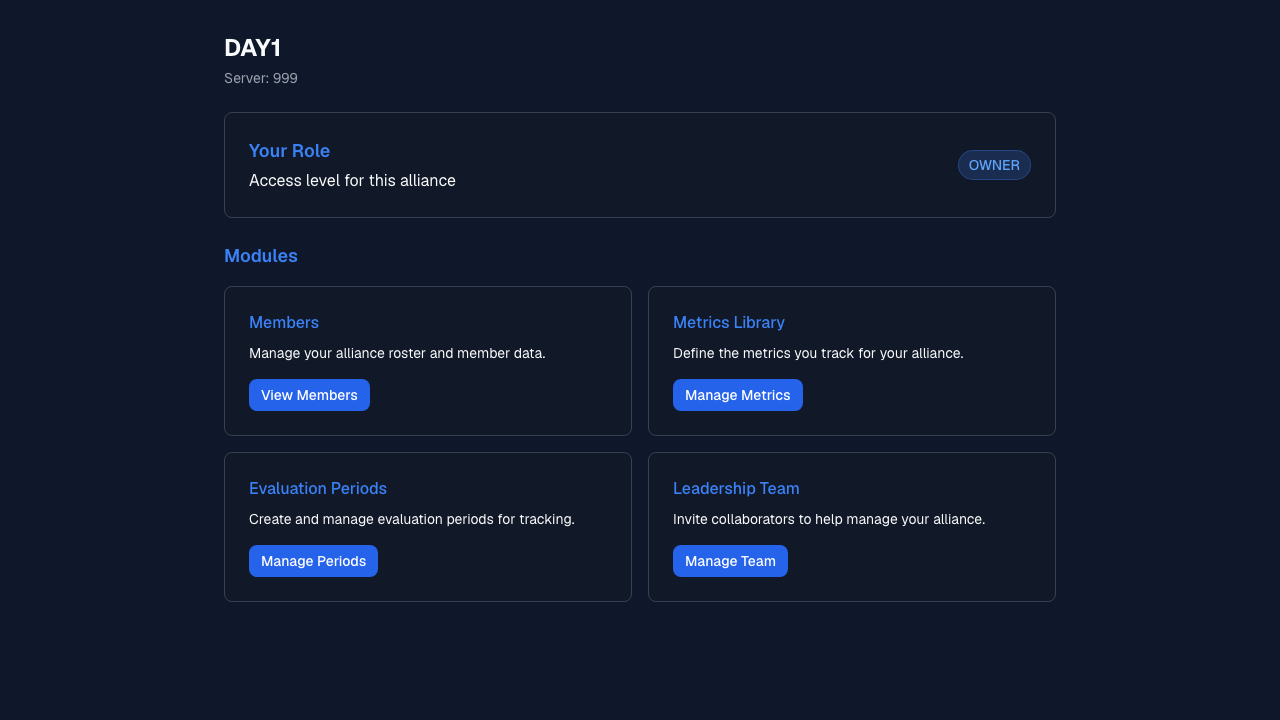
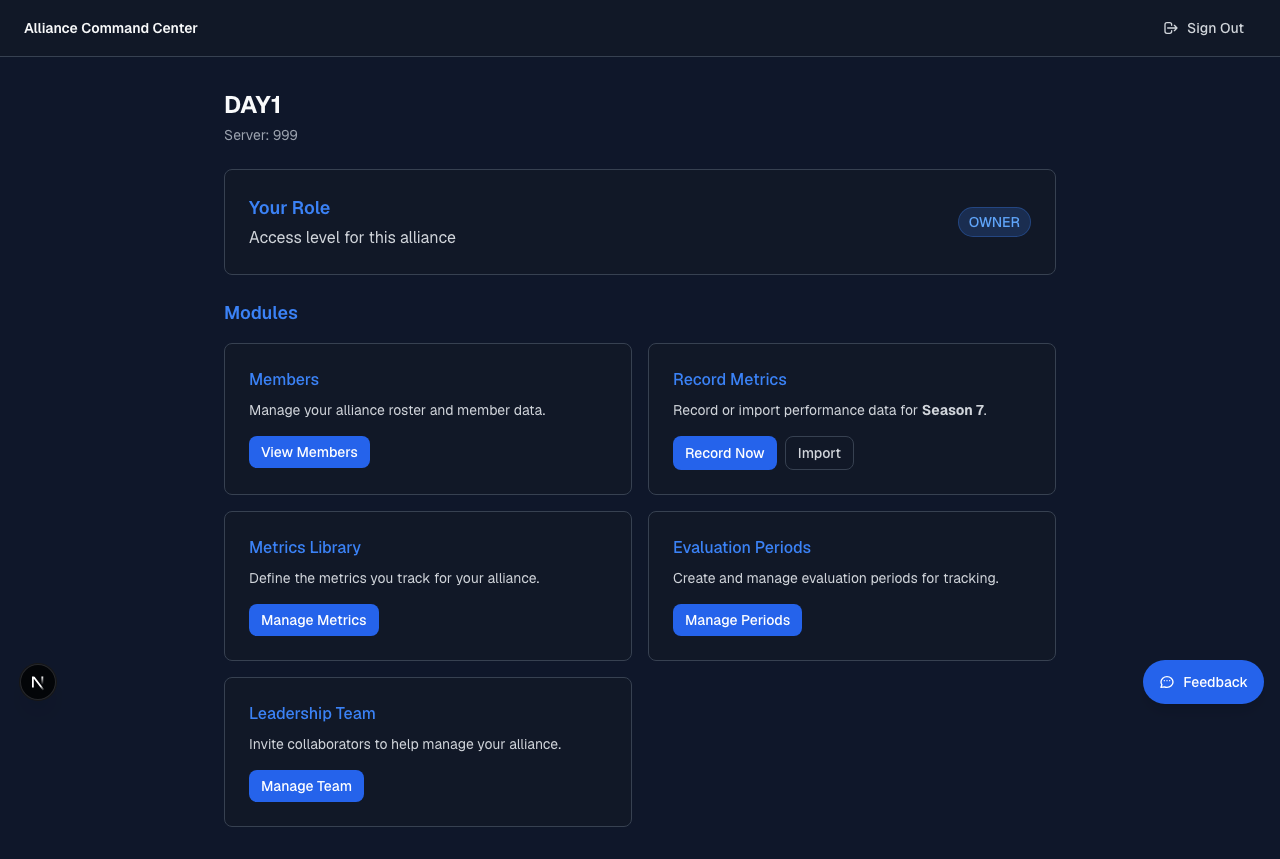
fix: Feedback widget contrast, URL validation, notify logging
- Use AA-compliant primary-hover/active shades for the floating feedback
  button (axe color-contrast was failing on the lighter bg-primary)
- Validate the client-supplied feedback URL as an internal path and clamp
  its length before persisting (operator context can't be spoofed)
- Include feedbackId/url/recipient in the operator-notification failure log
- Refresh Dashboard/Setup darwin visual baselines for the widget

diff --git a/app/feedback/actions.ts b/app/feedback/actions.ts
@@ -14,6 +14,21 @@ export type SubmitFeedbackState = {
 };
 
 const MAX_MESSAGE_LENGTH = 2000;
+const MAX_URL_LENGTH = 512;
+
+/**
+ * The URL is a client-supplied hint used only for operator context. Accept it
+ * only as an internal, root-relative path ("/...") and clamp its length;
+ * anything else (absolute URLs, junk, empty) is normalized away rather than
+ * persisted, so it can't mislead operator follow-up.
+ */
+function normalizeInternalPath(value: string | undefined): string {
+  const trimmed = value?.trim() ?? "";
+  if (!trimmed.startsWith("/") || trimmed.startsWith("//")) {
+    return "";
+  }
+  return trimmed.slice(0, MAX_URL_LENGTH);
+}
 
 /**
  * Submit in-app feedback.
@@ -31,7 +46,7 @@ export async function submitFeedback(
 
   const category = formData.get("category")?.toString() ?? "";
   const message = formData.get("message")?.toString().trim() ?? "";
-  const url = formData.get("url")?.toString().trim() ?? "";
+  const url = normalizeInternalPath(formData.get("url")?.toString());
   const viewport = formData.get("viewport")?.toString();
   const appVersion = formData.get("appVersion")?.toString();
 

diff --git a/app/feedback/notifyOperator.ts b/app/feedback/notifyOperator.ts
@@ -55,7 +55,12 @@ export async function notifyOperator(params: {
       feedbackId: feedback.id,
     });
   } catch (error) {
-    console.error("[feedback] operator notification failed", error);
+    console.error("[feedback] operator notification failed", {
+      error,
+      feedbackId: feedback.id,
+      url: feedback.url,
+      recipient,
+    });
   }
 }
 

diff --git a/app/src/components/FeedbackWidget.tsx b/app/src/components/FeedbackWidget.tsx
@@ -27,7 +27,7 @@ export function FeedbackWidget() {
           type="button"
           onClick={() => setOpen(true)}
           aria-label="Send feedback"
-          className="fixed bottom-4 right-4 z-40 flex items-center gap-2 rounded-full bg-primary px-4 py-3 text-sm font-medium text-white shadow-lg transition-colors hover:bg-primary-hover focus:outline-none focus:ring-2 focus:ring-primary focus:ring-offset-2 focus:ring-offset-background"
+          className="fixed bottom-4 right-4 z-40 flex items-center gap-2 rounded-full bg-primary-hover px-4 py-3 text-sm font-medium text-white shadow-lg transition-colors hover:bg-primary-active focus:outline-none focus:ring-2 focus:ring-primary focus:ring-offset-2 focus:ring-offset-background"
         >
           <FeedbackGlyph />
           Feedback